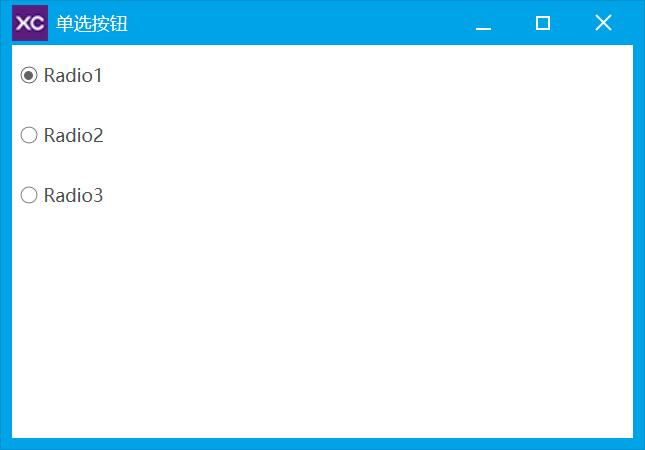
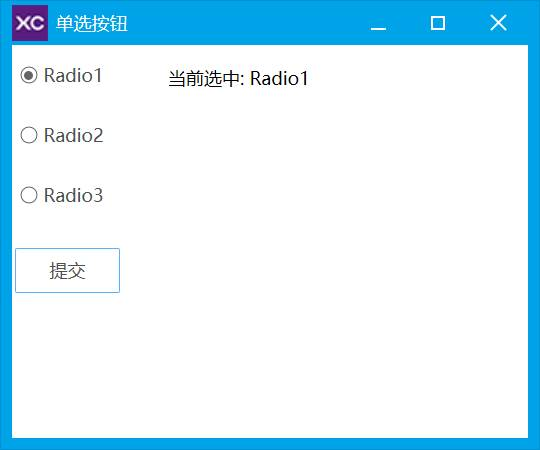
单选按钮

diff --git a/Basic/RadioButton/RadioButton.go b/Basic/RadioButton/RadioButton.go
@@ -18,7 +18,10 @@ func main() {
 	a.EnableAutoDPI(true).EnableDPI(true)
 
 	// 创建窗口
-	w := window.New(0, 0, 430, 300, "单选按钮", 0, xcc.Window_Style_Default)
+	w := window.New(0, 0, 360, 300, "单选按钮", 0, xcc.Window_Style_Default)
+
+	// 创建形状文本, 显示当前选中的选项
+	stCur := widget.NewShapeText(110, 40, 200, 24, "当前选中: Radio1", w.Handle)
 
 	// 创建按钮
 	Radio1 := widget.NewButton(10, 35, 70, 30, "Radio1", w.Handle)
@@ -40,23 +43,44 @@ func main() {
 	Radio2.SetGroupID(1)
 	Radio3.SetGroupID(1)
 
-	// 设置选中
+	// 保存到一个切片, 方便遍历
+	radios := []*widget.Button{Radio1, Radio2, Radio3}
+
+	// 更新当前选中显示
+	updateSelText := func(name string) {
+		stCur.SetText(fmt.Sprintf("当前选中: %s", name))
+		stCur.Redraw() // 修改显示后必须重绘
+	}
+
+	// 设置选中, 会触发选中事件
 	Radio1.SetCheck(true)
 
 	// 注册事件_按钮被选中
-	Radio1.AddEvent_Button_Check(btn_check)
-	Radio2.AddEvent_Button_Check(btn_check)
-	Radio3.AddEvent_Button_Check(btn_check)
+	for _, r := range radios {
+		r.AddEvent_Button_Check(func(hEle int, bCheck bool, pbHandled *bool) int {
+			if bCheck {
+				// 只有选中时才更新显示
+				updateSelText(xc.XBtn_GetText(hEle))
+			}
+			return 0
+		})
+	}
+
+	// 创建提交按钮
+	btnSubmit := widget.NewButton(10, 165, 70, 30, "提交", w.Handle)
+	btnSubmit.AddEvent_BnClick(func(hEle int, pbHandled *bool) int {
+		// 遍历分组内的单选按钮, 用 IsCheck() 判断哪个处于选中状态
+		for _, r := range radios {
+			if r.IsCheck() {
+				w.MessageBox("提交结果", fmt.Sprintf("你选择了: %s", r.GetText()), xcc.MessageBox_Flag_Ok, xcc.Window_Style_Modal)
+				return 0
+			}
+		}
+		w.MessageBox("提交结果", "你还没有选择任何项", xcc.MessageBox_Flag_Ok, xcc.Window_Style_Modal)
+		return 0
+	})
 
 	w.ShowWindow(xcc.SW_SHOW)
 	a.Run()
 	a.Exit()
-}
-
-// 事件_按钮被选中
-func btn_check(hEle int, bCheck bool, pbHandled *bool) int {
-	if bCheck {
-		fmt.Println(xc.XBtn_GetText(hEle), "selected")
-	}
-	return 0
 }
